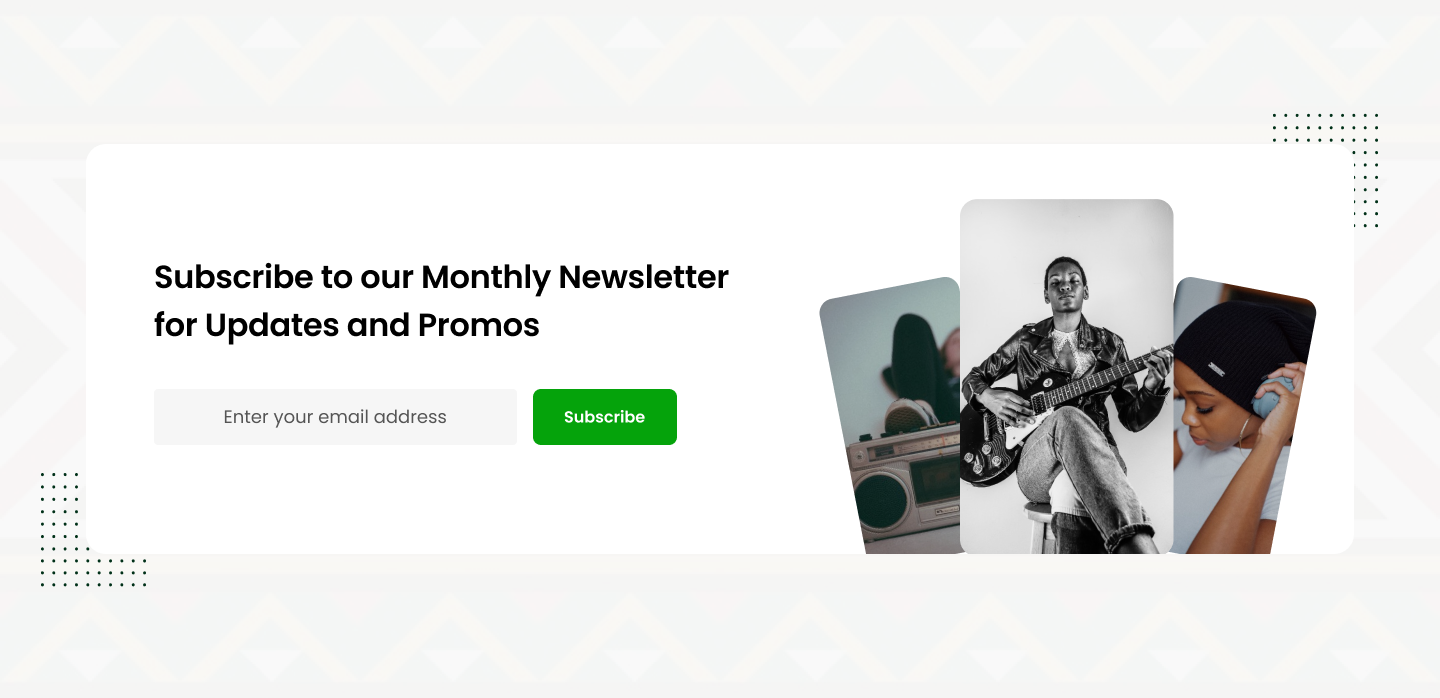
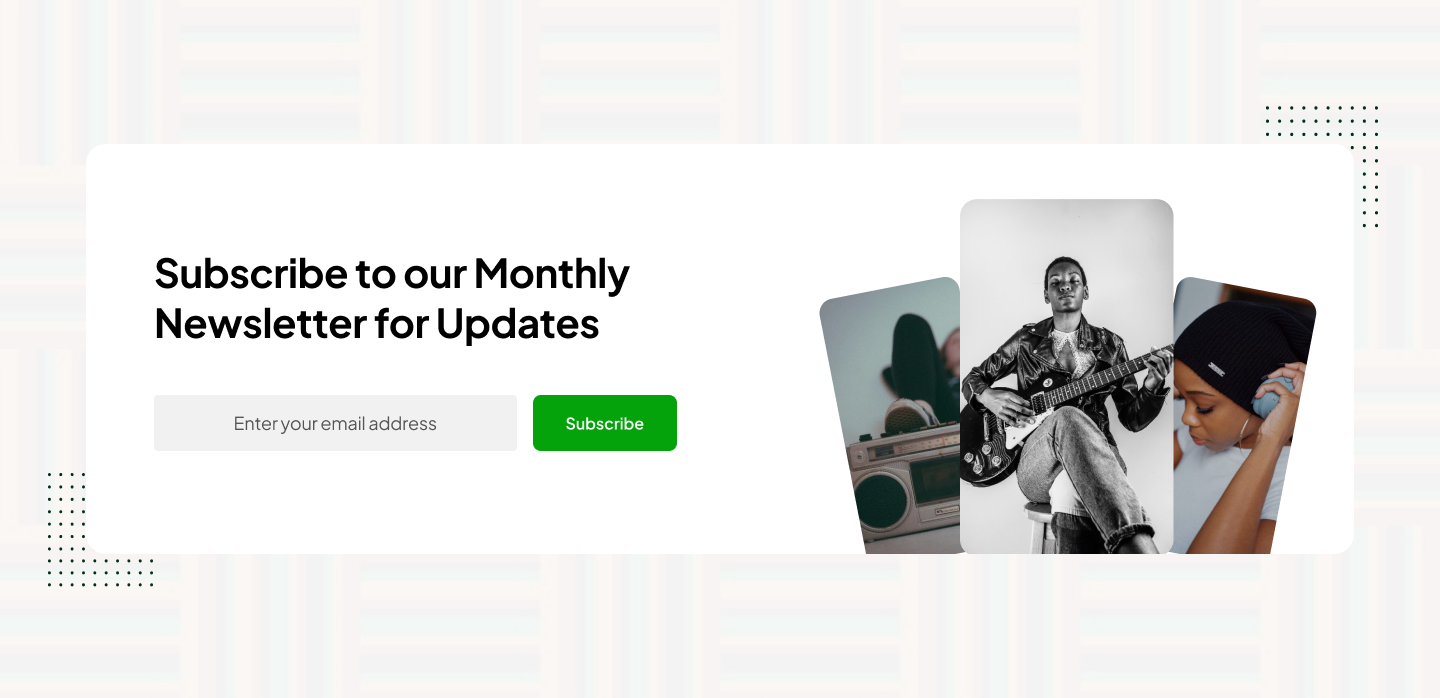
font-family across the app and revamp of the home screen

diff --git a/src/pages/Home/DiscvoverCarousel.js b/src/pages/Home/DiscvoverCarousel.js
@@ -8,8 +8,9 @@ import FormButton from "../../components/form/FormButton";
 
 const CarouselContainer = styled.div`
   position: relative;
-  width: 100%;
-  //   max-width: 1200px;
+  width: 95%;
+  border-radius: 40px;
+  overflow: hidden;
   margin: auto;
   //   padding-top: 3rem;
   // height: 30vh;
@@ -18,7 +19,7 @@ const CarouselContainer = styled.div`
     `url(${
       props.backgroundImage
         ? props.backgroundImage
-        : require("../../assets/2.jpg")
+        : require("../../assets/singnifySplashLogo.png")
     }) no-repeat center center`};
 
   background-size: cover;
@@ -123,8 +124,8 @@ const Overlay = styled.div`
   left: 0;
   right: 0;
   bottom: 0;
-  background: rgba(0, 0, 0, 0.1);
-  border-radius: 16px;
+  background: rgba(0, 0, 0, 0.7);
+  border-radius: 40px;
 `;
 
 const ImageWrapper = styled.div`
@@ -186,7 +187,6 @@ const Description = styled.p`
 const MusicCard = ({ music }) => {
   return (
     <CardContainer backgroundImage={music?.image}>
-      <Overlay />
       <ImageWrapper>
         <img src={music?.image} alt="Cover" />
       </ImageWrapper>
@@ -194,7 +194,7 @@ const MusicCard = ({ music }) => {
         <Title>{music?.middle}</Title>
         <Subtitle>{music?.pressure}</Subtitle>
         <Description>{truncateText(music?.description, 130)}</Description>
-        <FormButton title={"Listen Here"} />
+        <FormButton title={"Listen Here"} marginLeft={"0px"} />
       </ContentWrapper>
     </CardContainer>
   );
@@ -214,6 +214,7 @@ function DiscvoverCarousel({ props }) {
 
   return (
     <CarouselContainer>
+      <Overlay />
       <Slider {...settings}>
         {props?.map((cur, i) => (
           <MusicCard key={i} music={cur} />

diff --git a/src/pages/Navbar/NavbarElements.js b/src/pages/Navbar/NavbarElements.js
@@ -5,7 +5,8 @@ import { NavLink as Link } from "react-router-dom";
 import styled from "styled-components";
 
 export const Nav = styled.nav`
-  background: ${({ scrollNav }) => (scrollNav ? "rgba(0, 0, 0, 0.7)" : "#000")};
+  background: ${({ scrollNav }) =>
+    scrollNav ? "rgba(0, 0, 0, 0.4)" : "rgba(0, 0, 0, 0.4)"};
   height: 85px;
   display: flex;
   justify-content: space-between;
@@ -21,7 +22,7 @@ export const Nav = styled.nav`
 `;
 
 export const NavLink = styled(Link)`
-  color: #000;
+  color: ${({ color }) => (color ? color : "#000")};
   display: flex;
   align-items: center;
   text-decoration: none;
@@ -36,7 +37,7 @@ export const NavLink = styled(Link)`
 export const Bars = styled(FaBars)`
   // display: ${({ isOpen }) => (isOpen ? "none" : "block")};
   display: none;
-  color: #808080;
+  color: #fff;
   @media screen and (max-width: 768px) {
     display: block;
     position: absolute;
@@ -50,7 +51,7 @@ export const Bars = styled(FaBars)`
 
 export const Times = styled(IoMdClose)`
   display: ${({ isOpen }) => (isOpen ? "block" : "none")};
-  color: #808080;
+  color: #fff;
   @media screen and (max-width: 768px) {
     display: block;
     position: absolute;

diff --git a/src/pages/Home/CarouselSection.js b/src/pages/Home/CarouselSection.js
@@ -9,7 +9,7 @@ const CarouselContainer = styled.div`
   width: 100%;
   //   max-width: 1200px;
   margin: auto;
-  padding-top: 3rem;
+  // padding-top: 3rem;
   // height: 30vh;
   // margin-bottom: 20px;
 
@@ -149,13 +149,25 @@ const Carousel = () => {
                   justifyContent: "center",
                   alignItems: "center",
                   display: "flex",
-                  //   backgroundColor: "red",
+                  // backgroundColor: "red",
                   alignSelf: "center",
                   alignContent: "center",
                 }}
               >
-                <img src={cur.appStoreImage} alt={cur.alt} />
-                <img src={cur.playStoreImage} alt={cur.alt} />
+                <img
+                  src={cur.appStoreImage}
+                  alt={cur.alt}
+                  style={{
+                    width: 240,
+                  }}
+                />
+                <img
+                  src={cur.playStoreImage}
+                  alt={cur.alt}
+                  style={{
+                    width: 240,
+                  }}
+                />
               </div>
             </div>
           </div>

diff --git a/src/components/common/Genres.js b/src/components/common/Genres.js
@@ -125,19 +125,6 @@ const getRandomDarkColor = () => {
 };
 
 const Genres = ({ genres }) => {
-  // const genres = [
-  //   { id: 1, name: "African", imageUrl: require("../../assets/1.jpg") },
-  //   { id: 1, name: "African", imageUrl: require("../../assets/3.jpg") },
-  //   { id: 1, name: "African", imageUrl: require("../../assets/2.jpg") },
-  //   { id: 1, name: "African", imageUrl: require("../../assets/2.jpg") },
-  //   { id: 1, name: "African", imageUrl: require("../../assets/2.jpg") },
-  //   { id: 1, name: "African", imageUrl: require("../../assets/2.jpg") },
-  //   { id: 1, name: "African", imageUrl: require("../../assets/2.jpg") },
-  //   { id: 1, name: "African", imageUrl: require("../../assets/2.jpg") },
-  //   { id: 1, name: "African", imageUrl: require("../../assets/2.jpg") },
-  //   // Add more genres here...
-  // ];
-
   // Determine the max words based on screen size
   const isSmallScreen = window.innerWidth <= 768;
   const wordsToUse = isSmallScreen ? 10 : 40;

diff --git a/src/pages/Home/ContactSection.js b/src/pages/Home/ContactSection.js
@@ -48,9 +48,11 @@ const Heading = styled.h2`
   margin-bottom: 1rem;
   color: #000;
   font-weight: bold;
+  font-family: "Plus Jakarta Sans", sans-serif;
+  text-align: left;
 
   @media (max-width: 768px) {
-    text-align: center;
+    text-align: left;
     font-size: 28px;
   }
 `;
@@ -59,9 +61,11 @@ const Paragraph = styled.p`
   font-size: 24px;
   color: #434343;
   margin-bottom: 1rem;
+  font-family: "Plus Jakarta Sans", sans-serif;
+  text-align: left;
 
   @media (max-width: 768px) {
-    text-align: center;
+    text-align: left;
     font-size: 18px;
   }
 `;
@@ -100,7 +104,7 @@ const ContactSection = () => {
           title={"Visit Our Contact Page"}
           color={"black"}
           hoverColor={"black"}
-          width={"100%"}
+          width={"60%"}
           marginLeft={"0px"}
           onClick={() => {
             navigate("/contact-us");

diff --git a/src/pages/Footer/index.js b/src/pages/Footer/index.js
@@ -100,14 +100,14 @@ export const SubscribeForm = styled.form`
 
   button {
     padding: 10px;
-    background-color: #00ff00; /* Bright green button */
+    background-color: #05a30b; /* Bright green button */
     border: none;
     border-radius: 4px;
     cursor: pointer;
     color: #fff;
 
     &:hover {
-      background-color: #009900; /* Darker green on hover */
+      background-color: #05a30b; /* Darker green on hover */
     }
   }
 `;
@@ -143,6 +143,8 @@ const Footer = () => {
               alt="Google Play"
             />
           </a>
+        </AppStoreBadges>
+        <AppStoreBadges>
           <a href="https://www.apple.com/app-store/">
             <img src={require("../../assets/AppStore.png")} alt="App Store" />
           </a>

diff --git a/src/Library/Common.js b/src/Library/Common.js
@@ -1,6 +1,6 @@
 export const truncateText = (text, maxLetters) => {
-  if (text.length > maxLetters) {
-    return text.slice(0, maxLetters) + "...";
+  if (text?.length > maxLetters) {
+    return text?.slice(0, maxLetters) + "...";
   }
   return text;
 };
@@ -42,7 +42,7 @@ export const shareOnTwitter = (url, text) => {
 
 export function stripHTML(html) {
   const doc = new DOMParser().parseFromString(html, "text/html");
-  return doc.body.textContent || "";
+  return doc?.body?.textContent || "";
 }
 
 // Function to convert "MM:SS" format to total seconds

diff --git a/src/components/form/FormElements.js b/src/components/form/FormElements.js
@@ -7,6 +7,7 @@ export const FormBtn = styled.button`
   width: ${({ width }) => (width ? width : "122px")};
   color: #fff;
   font-size: 18;
+  font-family: "Plus Jakarta Sans", sans-serif;
   font-weight: 600;
   outline: none;
   border: none;
@@ -41,6 +42,7 @@ export const TransparentFormBtn = styled.button`
   color: ${({ color }) => (color ? color : "#fff")};
   font-size: 18;
   font-weight: 600;
+  font-family: "Plus Jakarta Sans", sans-serif;
   border: 2px solid #05a30b;
   cursor: pointer;
   transition: all 0.2s ease-in-out;

diff --git a/src/pages/Home/DownloadSection.js b/src/pages/Home/DownloadSection.js
@@ -74,9 +74,10 @@ const Heading = styled.h2`
   color: #000;
   font-weight: bold;
   text-align: left;
+  font-family: "Plus Jakarta Sans", sans-serif;
 
   @media (max-width: 768px) {
-    text-align: center;
+    text-align: left;
     font-size: 28px;
   }
 `;
@@ -86,9 +87,10 @@ const Paragraph = styled.p`
   color: #434343;
   margin-bottom: 1rem;
   text-align: left;
+  font-family: "Plus Jakarta Sans", sans-serif;
 
   @media (max-width: 768px) {
-    text-align: center;
+    text-align: left;
     font-size: 14px;
   }
 `;

diff --git a/public/index.html b/public/index.html
@@ -35,6 +35,13 @@
       href="https://fonts.googleapis.com/css2?family=Poppins:wght@300;400;500;600;700&display=swap"
     />
 
+    <link rel="preconnect" href="https://fonts.googleapis.com" />
+    <link rel="preconnect" href="https://fonts.gstatic.com" crossorigin />
+    <link
+      href="https://fonts.googleapis.com/css2?family=Plus+Jakarta+Sans:ital,wght@0,200..800;1,200..800&display=swap"
+      rel="stylesheet"
+    />
+
     <title>Singnify</title>
   </head>
   <body>

diff --git a/src/pages/Auth/RegisterPage.js b/src/pages/Auth/RegisterPage.js
@@ -86,12 +86,7 @@ const RegisterScreen = () => {
   return (
     <Container>
       <FormContainer>
-        <ImageSection>
-          <Logo
-            src={require("../../assets/NoBgSingnifyLogo.png")}
-            alt="Singnify Logo"
-          />
-        </ImageSection>
+        <ImageSection />
         <FormSection>
           <Title>Welcome to Singnify Music Distribution Company</Title>
           <p style={{ textAlign: "center" }}>Register as</p>

diff --git a/src/pages/Auth/ArtistRegister.js b/src/pages/Auth/ArtistRegister.js
@@ -294,12 +294,7 @@ function ArtistRegister() {
   return (
     <Container>
       <FormContainer>
-        <ImageSection>
-          <Logo
-            src={require("../../assets/NoBgSingnifyLogo.png")}
-            alt="Singnify Logo"
-          />
-        </ImageSection>
+        <ImageSection />
         <FormSection>
           <Title>Welcome !!!</Title>
           <Subtitle>Please fill all the information to register</Subtitle>
